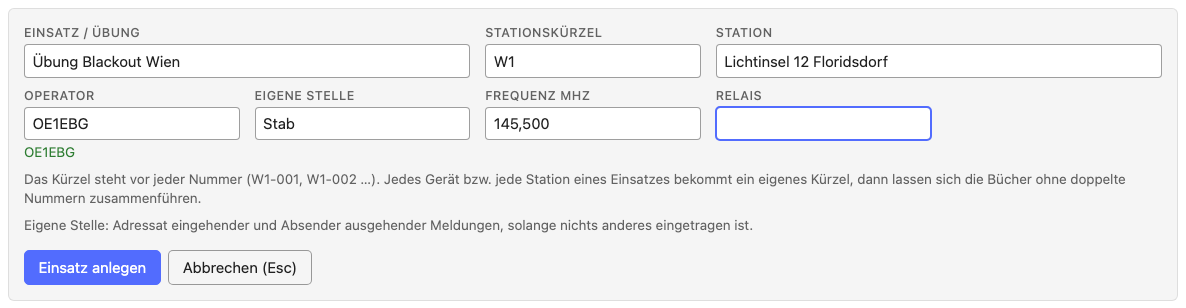
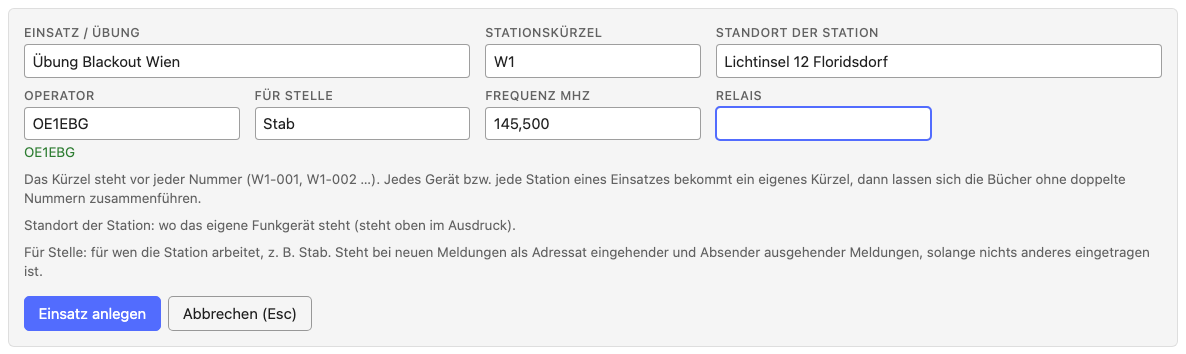
fix(notfunk): one name per Einsatz field, both explained in the help
"Station" is now "Standort der Station" (where the own radio is; the
help called it "Stationsstandort"), "Eigene Stelle" is now "Für Stelle"
(whom the station works for, e.g. Stab: default An for incoming and Von
for outgoing messages). The help explains both under these names; the
stored fields (station, home) are unchanged.

diff --git a/tools/notfunk/index.html b/tools/notfunk/index.html
@@ -73,12 +73,12 @@
           <input id="n-name" required enterkeyhint="next" placeholder="z. B. Übung Blackout Wien"></label>
         <label class="field"><span>Stationskürzel</span>
           <input id="n-prefix" required maxlength="6" class="mono" autocapitalize="characters" autocorrect="off" spellcheck="false" enterkeyhint="next" placeholder="W1" aria-describedby="n-prefix-help"></label>
-        <label class="field span-2"><span>Station</span>
-          <input id="n-station" enterkeyhint="next" placeholder="z. B. Einsatzleitstelle, Lichtinsel 12"></label>
+        <label class="field span-2"><span>Standort der Station</span>
+          <input id="n-station" enterkeyhint="next" placeholder="z. B. Einsatzleitstelle, Lichtinsel 12" aria-describedby="n-station-help"></label>
         <div class="field ac-field"><label for="n-operator">Operator</label>
           <div class="ac-wrap"><input id="n-operator" class="mono call-input" autocapitalize="characters" autocorrect="off" spellcheck="false" enterkeyhint="next" aria-describedby="n-operator-info"><div id="n-operator-pop" class="ac-pop"></div></div>
           <div class="ac-hints"><div id="n-operator-info" class="ac-info" aria-live="polite"></div></div></div>
-        <label class="field"><span>Eigene Stelle</span>
+        <label class="field"><span>Für Stelle</span>
           <input id="n-home" enterkeyhint="next" placeholder="Stab" aria-describedby="n-home-help"></label>
         <label class="field"><span>Frequenz MHz</span>
           <input id="n-freq" class="mono" inputmode="decimal" enterkeyhint="next" placeholder="145.500"></label>
@@ -87,7 +87,8 @@
           <div class="ac-hints"><div id="n-via-info" class="ac-info" aria-live="polite"></div></div></div>
       </div>
       <p class="hint" id="n-prefix-help">Das Kürzel steht vor jeder Nummer (W1-001, W1-002 …). Jedes Gerät bzw. jede Station eines Einsatzes bekommt ein eigenes Kürzel, dann lassen sich die Bücher ohne doppelte Nummern zusammenführen.</p>
-      <p class="hint" id="n-home-help">Eigene Stelle: Adressat eingehender und Absender ausgehender Meldungen, solange nichts anderes eingetragen ist.</p>
+      <p class="hint" id="n-station-help">Standort der Station: wo das eigene Funkgerät steht (steht oben im Ausdruck).</p>
+      <p class="hint" id="n-home-help">Für Stelle: für wen die Station arbeitet, z. B. Stab. Steht bei neuen Meldungen als Adressat eingehender und Absender ausgehender Meldungen, solange nichts anderes eingetragen ist.</p>
       <div class="toolbar form-foot">
         <button type="submit" class="primary">Einsatz anlegen</button>
         <button type="button" id="btn-cancel-op">Abbrechen (Esc)</button>
@@ -141,11 +142,11 @@
         <div class="grid-form op-grid" id="op-form">
           <label class="field span-2"><span>Einsatz / Übung</span><input id="e-name" enterkeyhint="next"></label>
           <label class="field"><span>Stationskürzel</span><input id="e-prefix" maxlength="6" class="mono call-input" autocapitalize="characters" autocorrect="off" spellcheck="false" enterkeyhint="next" aria-describedby="e-prefix-help"></label>
-          <label class="field span-2"><span>Station</span><input id="e-station" enterkeyhint="next"></label>
+          <label class="field span-2"><span>Standort der Station</span><input id="e-station" enterkeyhint="next" title="Wo das eigene Funkgerät steht (steht oben im Ausdruck)"></label>
           <div class="field ac-field"><label for="e-operator">Operator</label>
           <div class="ac-wrap"><input id="e-operator" class="mono call-input" autocapitalize="characters" autocorrect="off" spellcheck="false" enterkeyhint="next" aria-describedby="e-operator-info"><div id="e-operator-pop" class="ac-pop"></div></div>
           <div class="ac-hints"><div id="e-operator-info" class="ac-info" aria-live="polite"></div></div></div>
-          <label class="field"><span>Eigene Stelle</span><input id="e-home" enterkeyhint="next"></label>
+          <label class="field"><span>Für Stelle</span><input id="e-home" enterkeyhint="next" title="Für wen die Station arbeitet, z. B. Stab: Vorgabe für An (Eingang) bzw. Von (Ausgang)"></label>
           <label class="field"><span>Frequenz MHz</span><input id="e-freq" class="mono" inputmode="decimal" enterkeyhint="next"></label>
           <div class="field ac-field"><label for="e-via">Relais</label>
           <div class="ac-wrap"><input id="e-via" class="mono call-input" autocapitalize="characters" autocorrect="off" spellcheck="false" enterkeyhint="done" aria-describedby="e-via-info"><div id="e-via-pop" class="ac-pop"></div></div>
@@ -356,7 +357,8 @@
         <h3 id="h-who-t">Wer ist wer</h3>
         <dl class="kb">
           <dt>Von (Absender)</dt><dd>wer die Meldung fachlich aufgibt. <span class="ex">FF Floridsdorf, Einsatzleiter</span></dd>
-          <dt>An (Adressat)</dt><dd>für wen sie bestimmt ist. <span class="ex">Stab</span> <span class="ex">S4</span> Vorgabe: die Eigene Stelle des Einsatzes.</dd>
+          <dt>An (Adressat)</dt><dd>für wen sie bestimmt ist. <span class="ex">Stab</span> <span class="ex">S4</span> Vorgabe: die „Für Stelle“ des Einsatzes.</dd>
+          <dt>Für Stelle</dt><dd>für wen die eigene Station arbeitet <span class="ex">Stab</span>; im Einsatz eingetragen. Steht bei Eingängen automatisch bei An, bei Ausgängen bei Von.</dd>
           <dt>Funkstelle</dt><dd>die Funkstation, von der die Meldung gehört wurde (Eingang) bzw. an die sie gesendet wird (Ausgang). <span class="ex">OE1ABC</span> Unbekannte Stationen einfach eintippen.</dd>
           <dt>Ursprungsstation</dt><dd>Station, bei der die Meldung ursprünglich aufgegeben wurde; bei Weitergaben oft nicht die Funkstelle.</dd>
           <dt>Operator</dt><dd>wer hier am Gerät aufnimmt („Aufnahme“ oben im Formular). Beim Schichtwechsel im Feld „Einsatz“ ändern; gespeicherte Meldungen behalten ihren Operator.</dd>
@@ -367,7 +369,7 @@
         <dl class="kb">
           <dt>Ort</dt><dd>wo das gemeldete Ereignis ist. <span class="ex">Brünner Straße 68</span> <span class="ex">JN88EG</span> Ein Vorschlag ergänzt Postleitzahl und Locator; der Inhalt der Meldung bleibt unverändert.</dd>
           <dt>Ursprungsort</dt><dd>wo die Meldung ursprünglich aufgegeben wurde; kann vom Ereignisort abweichen.</dd>
-          <dt>Stationsstandort</dt><dd>wo die eigene Station steht: gehört zum Einsatz (Station), nicht zur Meldung.</dd>
+          <dt>Standort der Station</dt><dd>wo das eigene Funkgerät steht <span class="ex">Lichtinsel 12 Floridsdorf</span>; im Einsatz eingetragen, gilt für alle Meldungen.</dd>
         </dl>
       </section>
       <section id="h-when" aria-labelledby="h-when-t">

diff --git a/tools/notfunk/js/app.js b/tools/notfunk/js/app.js
@@ -171,7 +171,7 @@ async function renderOps() {
     el('div', { class: 'info' },
       el('div', { class: 't' }, op.name),
       el('div', { class: 'meta' }, `${fmtVienna(op.created).split(' ')[0]} · Station ${op.prefix}${op.station ? ` ${op.station}` : ''} · ${counts.get(op.id) || 0} Meldungen`),
-      el('div', { class: 'meta' }, [op.operator && `Op ${op.operator}`, op.home && `Eigene Stelle ${op.home}`, op.freq && `${fmtFreq(op.freq)} MHz`, op.via && `via ${op.via}`].filter(Boolean).join(' · '))),
+      el('div', { class: 'meta' }, [op.operator && `Op ${op.operator}`, op.home && `für ${op.home}`, op.freq && `${fmtFreq(op.freq)} MHz`, op.via && `via ${op.via}`].filter(Boolean).join(' · '))),
     el('div', { class: 'actions' }, actions));
   }));
 }
@@ -247,7 +247,7 @@ function renderOpPanel() {
   setText($('#op-sum'), [
     `${op.prefix}${op.station ? ` ${op.station}` : ''}`,
     op.operator ? `Op ${op.operator}` : 'Operator fehlt',
-    op.home && `Eigene Stelle ${op.home}`,
+    op.home && `für ${op.home}`,
     op.freq && `${fmtFreq(op.freq)} MHz`,
     op.via && `via ${op.via}`,
   ].filter(Boolean).join(' · '));
@@ -292,7 +292,7 @@ async function saveOpPanel() {
   bookStatus(`Einsatz geändert: ${Object.keys(patch).filter(k => (op[k] || '') !== patch[k]).map(k => OP_LABELS[k]).join(', ')}`);
 }
 
-const OP_LABELS = { name: 'Name', prefix: 'Stationskürzel', station: 'Station', operator: 'Operator', home: 'Eigene Stelle', freq: 'Frequenz', via: 'Relais' };
+const OP_LABELS = { name: 'Name', prefix: 'Stationskürzel', station: 'Standort der Station', operator: 'Operator', home: 'Für Stelle', freq: 'Frequenz', via: 'Relais' };
 
 // Completion on the operator and relay fields of an operation (the
 // "+ Neuer Einsatz" form and the Einsatz panel), as in the confirmation

diff --git a/docs/notfunk-anleitung.md b/docs/notfunk-anleitung.md
@@ -55,9 +55,9 @@ eine neue Sicherung (JSON) herunter.
 | --- | --- | --- |
 | Einsatz / Übung | Name des Einsatzes | Übung Blackout Wien |
 | Stationskürzel | steht vor jeder Nummer; jedes Gerät bzw. jede Station eines Einsatzes bekommt ein eigenes | W1 |
-| Station | Name der eigenen Station | Lichtinsel 12 Floridsdorf |
+| Standort der Station | wo das eigene Funkgerät steht; steht oben im Ausdruck | Lichtinsel 12 Floridsdorf |
 | Operator | wer am Gerät aufnimmt | OE1EBG |
-| Eigene Stelle | Adressat eingehender und Absender ausgehender Meldungen, solange nichts anderes eingetragen ist | Stab |
+| Für Stelle | für wen die Station arbeitet: Adressat eingehender und Absender ausgehender Meldungen, solange nichts anderes eingetragen ist | Stab |
 | Frequenz, Relais | Vorgabe für neue Meldungen | 145,500 · OE1XUU |
 
 Alles außer dem Stationskürzel lässt sich später im aufklappbaren Feld
@@ -136,8 +136,8 @@ Unter **„Weitere Felder“**:
 
 - **Ort:** wo das Ereignis ist.
 - **Ursprungsort:** wo die Meldung aufgegeben wurde.
-- **Stationsstandort:** wo die eigene Station steht; gehört zum Einsatz, nicht
-  zur Meldung.
+- **Standort der Station:** wo das eigene Funkgerät steht; wird im Einsatz
+  eingetragen, nicht bei der Meldung.
 
 Die Ortssuche schlägt Wiener Adressen, Orte, Plätze und Haltestellen vor und
 für ganz Österreich Postleitzahlen, Gemeinden und Bezirke. Ein Vorschlag

diff --git a/tools/notfunk/README.md b/tools/notfunk/README.md
@@ -135,8 +135,9 @@ name, and a distribution list ("Verteiler").
 ## Using it
 
 - **Einsätze:** an operation has a name, a **station code** (the number
-  prefix, e.g. `W1`; one per device or station), the station's name, the
-  operator, the **own post** ("Eigene Stelle", e.g. "Stab": recipient of
+  prefix, e.g. `W1`; one per device or station), where the station is
+  ("Standort der Station", `station`), the operator, the **own post** ("Für
+  Stelle", `home`, e.g. "Stab": recipient of
   incoming and sender of outgoing messages unless typed otherwise), and a
   default frequency/relay.
 - **Einsatz panel** above the form (like the confirmation log's Header):
